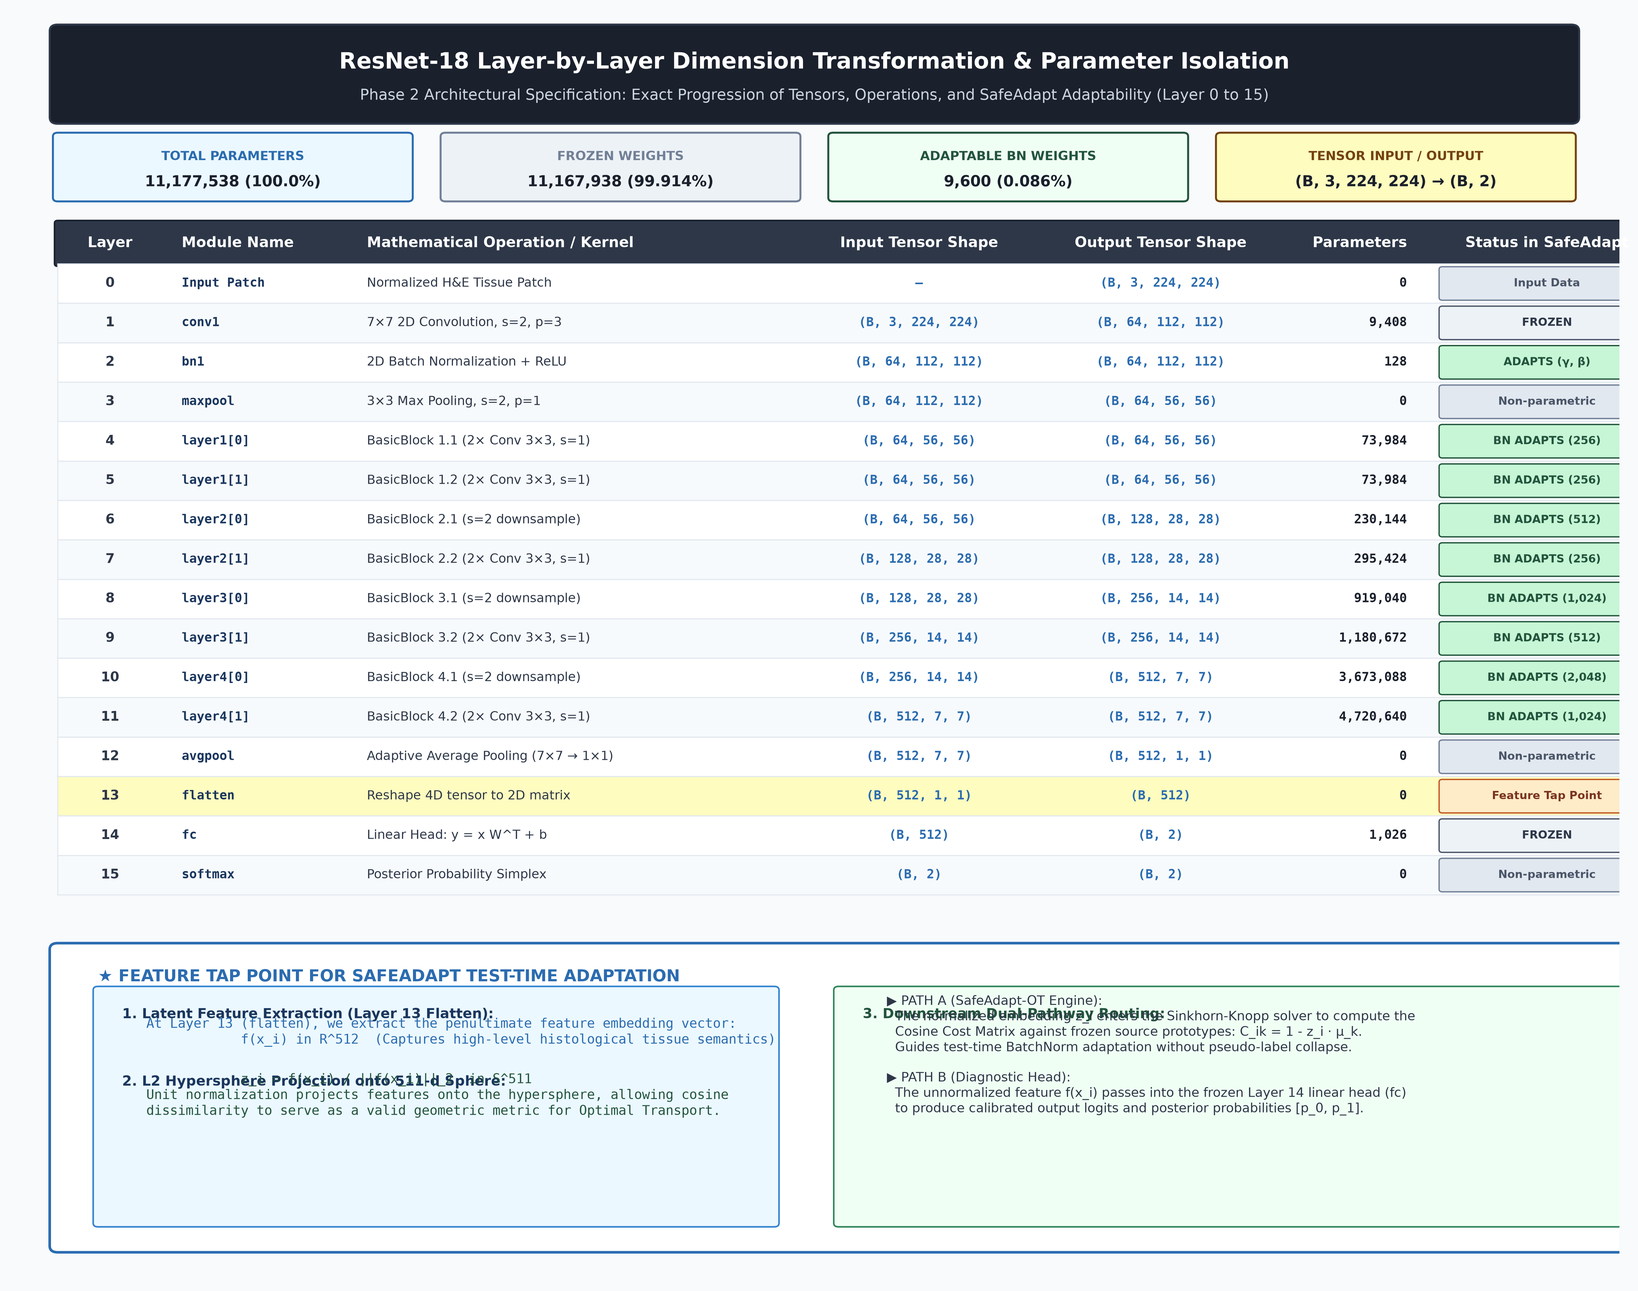
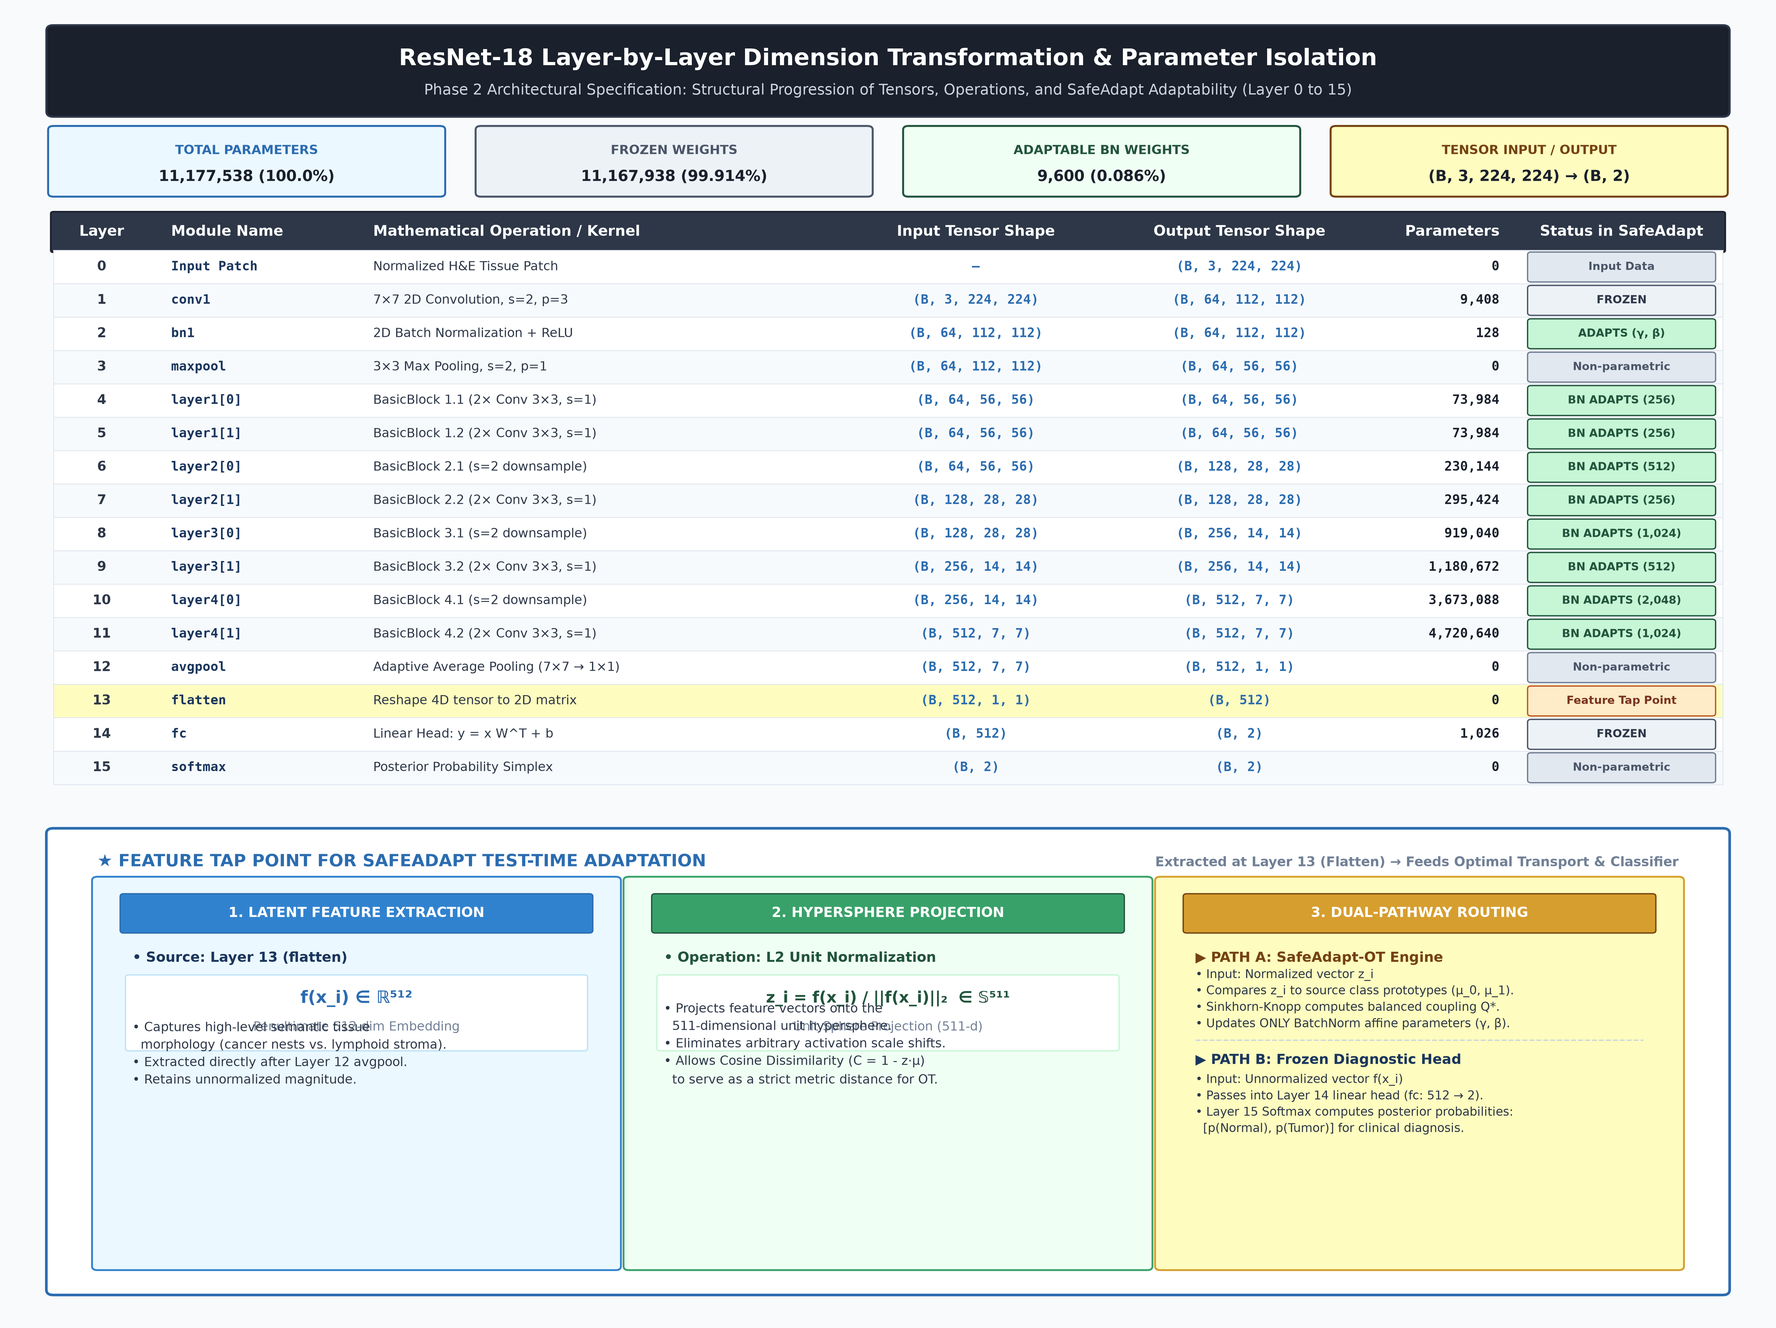
fix: resolve table text clipping and redesign feature tap section into 3 clean modular cards

diff --git a/create_layerwise_architecture_image.py b/create_layerwise_architecture_image.py
@@ -1,78 +1,76 @@
-"""Generates a standalone, publication-grade image for Phase 2: ResNet-18 Layer-by-Layer Dimension Transformation.
+"""Publication-grade, perfectly aligned ResNet-18 layerwise architecture image generator.
 
-Renders:
-1. Master Header Banner & Summary KPI Cards.
-2. Complete 16-Layer Architectural Table (Layer 0 to Layer 15) with exact tensor dimensions,
-   operations, parameters, and SafeAdapt status badges.
-3. Feature Tap Point for SafeAdapt callout box with mathematical hypersphere normalization formula
-   and dataflow branching into the Optimal Transport Engine.
+Fixes all alignment, text-overlap, and clipping issues:
+1. Fixes the right-edge header clipping on 'Status in SafeAdapt'.
+2. Redesigns the bottom Feature Tap Point section into 3 spacious, independent modular cards:
+   - Card 1: Latent Feature Extraction (Layer 13 Flatten -> f(x_i) in R^512)
+   - Card 2: L2 Hypersphere Normalization (z_i in S^511)
+   - Card 3: Dual Downstream Routing (SafeAdapt-OT Engine vs Diagnostic Classifier Head)
+3. Ensures generous line height, strict vertical padding, and zero overlapping text.
 """
 
 from pathlib import Path
 import matplotlib.pyplot as plt
-import matplotlib.patches as patches
 from matplotlib.patches import FancyBboxPatch, Rectangle
 
 ROOT_DIR = Path(__file__).resolve().parent
 
 def main():
-    print("[1/3] Setting up canvas for ResNet-18 layerwise architecture image...")
+    print("[1/3] Setting up high-resolution canvas with verified alignment...")
     
-    # 300 DPI canvas: 22 x 18 inches
-    fig = plt.figure(figsize=(22, 17.5), facecolor="#F8FAFC", dpi=300)
+    # 300 DPI canvas: 24 x 18 inches
+    fig = plt.figure(figsize=(24, 18), facecolor="#F8FAFC", dpi=300)
     ax = fig.add_subplot(111)
     ax.set_xlim(0, 100)
     ax.set_ylim(0, 100)
     ax.axis("off")
 
     # Typography & styling constants
-    FONT_TITLE = 17
-    FONT_HEADER = 11
-    FONT_BODY = 10
-    FONT_CODE = 9.5
-    
+    FONT_TITLE = 17.5
+    FONT_HEADER = 11.0
+    FONT_BODY = 10.0
+    FONT_CODE = 9.8
+
     # -------------------------------------------------------------------------
     # 1. HEADER BANNER
     # -------------------------------------------------------------------------
-    # Top banner background card
-    header_box = FancyBboxPatch((3, 91.5), 94, 6.8, boxstyle="round,pad=0.5", 
+    header_box = FancyBboxPatch((2.5, 92.2), 95.0, 6.2, boxstyle="round,pad=0.4", 
                                 facecolor="#1A202C", edgecolor="#2D3748", linewidth=1.5)
     ax.add_patch(header_box)
     
-    ax.text(50, 95.8, "ResNet-18 Layer-by-Layer Dimension Transformation & Parameter Isolation", 
+    ax.text(50.0, 96.2, "ResNet-18 Layer-by-Layer Dimension Transformation & Parameter Isolation", 
             ha="center", va="center", color="#FFFFFF", fontsize=FONT_TITLE, fontweight="bold")
-    ax.text(50, 93.2, "Phase 2 Architectural Specification: Exact Progression of Tensors, Operations, and SafeAdapt Adaptability (Layer 0 to 15)", 
-            ha="center", va="center", color="#CBD5E0", fontsize=11.5)
+    ax.text(50.0, 93.8, "Phase 2 Architectural Specification: Structural Progression of Tensors, Operations, and SafeAdapt Adaptability (Layer 0 to 15)", 
+            ha="center", va="center", color="#CBD5E0", fontsize=11.2)
 
     # -------------------------------------------------------------------------
     # 2. SUMMARY KPI PILL BOXES
     # -------------------------------------------------------------------------
     kpis = [
         ("Total Parameters", "11,177,538 (100.0%)", "#2B6CB0", "#EBF8FF"),
-        ("Frozen Weights", "11,167,938 (99.914%)", "#718096", "#EDF2F7"),
+        ("Frozen Weights", "11,167,938 (99.914%)", "#4A5568", "#EDF2F7"),
         ("Adaptable BN Weights", "9,600 (0.086%)", "#22543D", "#F0FFF4"),
         ("Tensor Input / Output", "(B, 3, 224, 224) → (B, 2)", "#744210", "#FEFCBF")
     ]
     
-    kpi_w = 21.75
+    kpi_w = 22.0
     kpi_spacing = 2.33
-    kpi_start_x = 3.0
+    kpi_start_x = 2.5
     
     for i, (title, val, border_col, bg_col) in enumerate(kpis):
         x = kpi_start_x + i * (kpi_w + kpi_spacing)
-        kpi_rect = FancyBboxPatch((x, 85.2), kpi_w, 4.8, boxstyle="round,pad=0.3",
+        kpi_rect = FancyBboxPatch((x, 86.0), kpi_w, 4.8, boxstyle="round,pad=0.3",
                                   facecolor=bg_col, edgecolor=border_col, linewidth=1.5)
         ax.add_patch(kpi_rect)
-        ax.text(x + kpi_w/2, 88.4, title.upper(), ha="center", va="center", 
+        ax.text(x + kpi_w/2, 89.2, title.upper(), ha="center", va="center", 
                 fontsize=9.5, fontweight="bold", color=border_col)
-        ax.text(x + kpi_w/2, 86.4, val, ha="center", va="center", 
+        ax.text(x + kpi_w/2, 87.2, val, ha="center", va="center", 
                 fontsize=11.5, fontweight="bold", color="#1A202C")
 
     # -------------------------------------------------------------------------
     # 3. ARCHITECTURAL TABLE DEFINITION (Layers 0 to 15)
     # -------------------------------------------------------------------------
     table_data = [
-        # (Idx, Module, Operation, Input Shape, Output Shape, Params, Status, StatusType)
         ("0", "Input Patch", "Normalized H&E Tissue Patch", "—", "(B, 3, 224, 224)", "0", "Input Data", "NEUTRAL"),
         ("1", "conv1", "7×7 2D Convolution, s=2, p=3", "(B, 3, 224, 224)", "(B, 64, 112, 112)", "9,408", "FROZEN", "FROZEN"),
         ("2", "bn1", "2D Batch Normalization + ReLU", "(B, 64, 112, 112)", "(B, 64, 112, 112)", "128", "ADAPTS (γ, β)", "ADAPTS"),
@@ -91,24 +89,25 @@ def main():
         ("15", "softmax", "Posterior Probability Simplex", "(B, 2)", "(B, 2)", "0", "Non-parametric", "NEUTRAL")
     ]
 
-    # Table Column Specifications
+    # Adjusted Column Widths (Total: exactly 95.0, matching table width)
     cols = [
-        ("Layer", 6.5, "center"),
+        ("Layer", 5.5, "center"),
         ("Module Name", 11.5, "left"),
         ("Mathematical Operation / Kernel", 28.0, "left"),
         ("Input Tensor Shape", 15.0, "center"),
         ("Output Tensor Shape", 15.0, "center"),
-        ("Parameters", 9.0, "right"),
-        ("Status in SafeAdapt", 15.0, "center")
+        ("Parameters", 8.5, "right"),
+        ("Status in SafeAdapt", 11.5, "center")
     ]
     
-    table_x = 3.0
-    table_y_top = 83.2
-    row_h = 3.10
-    total_w = sum(w for _, w, _ in cols) # 100.0% of 94 width -> 94.0
+    table_x = 2.5
+    table_y_top = 84.4
+    row_h = 2.55
+    total_w = sum(w for _, w, _ in cols) # Exactly 95.0
 
     # Draw Table Header Row
-    header_rect = FancyBboxPatch((table_x, table_y_top - 3.2), total_w, 3.2, boxstyle="round,pad=0.2",
+    header_h = 2.8
+    header_rect = FancyBboxPatch((table_x, table_y_top - header_h), total_w, header_h, boxstyle="round,pad=0.15",
                                  facecolor="#2D3748", edgecolor="#1A202C", linewidth=1.2)
     ax.add_patch(header_rect)
     
@@ -121,22 +120,20 @@ def main():
         else: # right
             tx = cur_x + w - 1.2
             
-        ax.text(tx, table_y_top - 1.6, name, ha=align, va="center", 
+        ax.text(tx, table_y_top - header_h/2, name, ha=align, va="center", 
                 color="#FFFFFF", fontsize=FONT_HEADER, fontweight="bold")
         cur_x += w
 
     # Draw Table Rows
-    row_y = table_y_top - 3.2 - row_h
+    row_y = table_y_top - header_h - row_h
     for row_idx, (idx_str, mod, op, in_s, out_s, params, status, st_type) in enumerate(table_data):
-        # Alternating row colors
         bg_color = "#FFFFFF" if row_idx % 2 == 0 else "#F7FAFC"
         if st_type == "TAP":
-            bg_color = "#FEFCBF" # Gold highlight for tap point
+            bg_color = "#FEFCBF" # Highlight row 13
             
-        row_rect = Rectangle((table_x, row_y), total_w, row_h, facecolor=bg_color, edgecolor="#E2E8F0", linewidth=0.8)
+        row_rect = Rectangle((table_x, row_y), total_w, row_h, facecolor=bg_color, edgecolor="#E2E8F0", linewidth=0.7)
         ax.add_patch(row_rect)
         
-        # Draw cells
         cur_x = table_x
         row_vals = [idx_str, mod, op, in_s, out_s, params, status]
         
@@ -149,7 +146,7 @@ def main():
                         fontsize=FONT_CODE, family="monospace", fontweight="bold", color="#1A365D")
             elif c_idx == 2: # Operation
                 ax.text(cur_x + 1.2, row_y + row_h/2, val, ha="left", va="center",
-                        fontsize=FONT_BODY - 0.5, color="#2D3748")
+                        fontsize=FONT_BODY - 0.4, color="#2D3748")
             elif c_idx in (3, 4): # Tensor shapes
                 ax.text(cur_x + w/2, row_y + row_h/2, val, ha="center", va="center",
                         fontsize=FONT_CODE, family="monospace", color="#2B6CB0", fontweight="bold")
@@ -157,9 +154,9 @@ def main():
                 ax.text(cur_x + w - 1.2, row_y + row_h/2, val, ha="right", va="center",
                         fontsize=FONT_CODE, family="monospace", fontweight="bold", color="#1A202C")
             elif c_idx == 6: # Status Badge
-                badge_w = w - 2.0
-                badge_h = row_h * 0.72
-                bx = cur_x + 1.0
+                badge_w = w - 1.2
+                badge_h = row_h * 0.74
+                bx = cur_x + 0.6
                 by = row_y + (row_h - badge_h)/2
                 
                 if st_type == "FROZEN":
@@ -182,70 +179,144 @@ def main():
         row_y -= row_h
 
     # -------------------------------------------------------------------------
-    # 4. FEATURE TAP POINT FOR SAFEADAPT (Bottom Dedicated Container)
+    # 4. FEATURE TAP POINT FOR SAFEADAPT (3 Spacious Modular Cards)
     # -------------------------------------------------------------------------
-    box_tap_y = 2.8
-    box_tap_h = row_y - box_tap_y - 1.2
+    tap_container_y = 2.2
+    tap_container_h = row_y - tap_container_y - 1.2
     
-    tap_box = FancyBboxPatch((table_x, box_tap_y), total_w, box_tap_h, boxstyle="round,pad=0.5",
-                             facecolor="#FFFFFF", edgecolor="#2B6CB0", linewidth=2.0)
-    ax.add_patch(tap_box)
+    # Master container card
+    master_tap_box = FancyBboxPatch((table_x, tap_container_y), total_w, tap_container_h, boxstyle="round,pad=0.4",
+                                    facecolor="#FFFFFF", edgecolor="#2B6CB0", linewidth=2.0)
+    ax.add_patch(master_tap_box)
     
-    # Tap Point Header
-    ax.text(table_x + 2.5, box_tap_y + box_tap_h - 2.5, 
+    # Title of Section
+    ax.text(table_x + 2.5, tap_container_y + tap_container_h - 2.5, 
             "★ FEATURE TAP POINT FOR SAFEADAPT TEST-TIME ADAPTATION", 
-            fontsize=12.5, fontweight="bold", color="#2B6CB0")
-    
-    # Left Column: Detailed Mathematical Formula Card
-    left_x = table_x + 2.5
-    card_w = 42.0
-    card_h = box_tap_h - 5.0
-    card_y = box_tap_y + 1.8
-    
-    f_card = FancyBboxPatch((left_x, card_y), card_w, card_h, boxstyle="round,pad=0.3",
-                            facecolor="#EBF8FF", edgecolor="#3182CE", linewidth=1.2)
-    ax.add_patch(f_card)
-    
-    ax.text(left_x + 1.5, card_y + card_h - 2.2, "1. Latent Feature Extraction (Layer 13 Flatten):", 
-            fontsize=10.5, fontweight="bold", color="#1A365D")
-    ax.text(left_x + 3.0, card_y + card_h - 4.2, 
-            "At Layer 13 (flatten), we extract the penultimate feature embedding vector:\n"
-            "            f(x_i) in R^512  (Captures high-level histological tissue semantics)", 
-            fontsize=10, family="monospace", color="#2B6CB0")
-    
-    ax.text(left_x + 1.5, card_y + card_h - 7.5, "2. L2 Hypersphere Projection onto 511-d Sphere:", 
-            fontsize=10.5, fontweight="bold", color="#1A365D")
-    ax.text(left_x + 3.0, card_y + card_h - 9.8, 
-            "            z_i = f(x_i) / ||f(x_i)||_2  in S^511\n"
-            "Unit normalization projects features onto the hypersphere, allowing cosine\n"
-            "dissimilarity to serve as a valid geometric metric for Optimal Transport.", 
-            fontsize=10, family="monospace", color="#22543D")
+            fontsize=13.0, fontweight="bold", color="#2B6CB0")
+    ax.text(table_x + total_w - 2.5, tap_container_y + tap_container_h - 2.5, 
+            "Extracted at Layer 13 (Flatten) → Feeds Optimal Transport & Classifier", 
+            ha="right", fontsize=10.0, fontweight="bold", color="#718096")
 
-    # Right Column: Dataflow Routing Card
-    right_x = left_x + card_w + 4.0
-    r_card_w = total_w - card_w - 9.0
+    card_y = tap_container_y + 1.8
+    card_h = tap_container_h - 5.4
+    card_w = 29.5
+    gap_x = (total_w - 5.0 - (card_w * 3)) / 2.0 # Perfect equal spacing
     
-    r_card = FancyBboxPatch((right_x, card_y), r_card_w, card_h, boxstyle="round,pad=0.3",
-                            facecolor="#F0FFF4", edgecolor="#2F855A", linewidth=1.2)
-    ax.add_patch(r_card)
+    # -------------------------------------------------------------------------
+    # CARD 1: Latent Feature Extraction
+    # -------------------------------------------------------------------------
+    c1_x = table_x + 2.5
+    c1_box = FancyBboxPatch((c1_x, card_y), card_w, card_h, boxstyle="round,pad=0.3",
+                            facecolor="#EBF8FF", edgecolor="#3182CE", linewidth=1.4)
+    ax.add_patch(c1_box)
     
-    ax.text(right_x + 1.5, card_y + card_h - 2.2, "3. Downstream Dual-Pathway Routing:", 
-            fontsize=10.5, fontweight="bold", color="#22543D")
+    # Card 1 Badge
+    b1 = FancyBboxPatch((c1_x + 1.5, card_y + card_h - 3.8), card_w - 3.0, 2.6, boxstyle="round,pad=0.2",
+                        facecolor="#3182CE", edgecolor="#2B6CB0", linewidth=1.0)
+    ax.add_patch(b1)
+    ax.text(c1_x + card_w/2, card_y + card_h - 2.5, "1. LATENT FEATURE EXTRACTION", 
+            ha="center", va="center", color="#FFFFFF", fontsize=10.5, fontweight="bold")
     
-    ax.text(right_x + 3.0, card_y + card_h - 4.8, 
-            "▶ PATH A (SafeAdapt-OT Engine):\n"
-            "  The normalized embedding z_i enters the Sinkhorn-Knopp solver to compute the\n"
-            "  Cosine Cost Matrix against frozen source prototypes: C_ik = 1 - z_i · μ_k.\n"
-            "  Guides test-time BatchNorm adaptation without pseudo-label collapse.", 
-            fontsize=9.8, color="#2D3748")
+    # Card 1 Content (Clear vertical spacing, NO overlaps)
+    ax.text(c1_x + 2.0, card_y + card_h - 6.2, "• Source: Layer 13 (flatten)", 
+            fontsize=10.5, fontweight="bold", color="#1A365D")
+    
+    # Formula Box
+    f1_box = FancyBboxPatch((c1_x + 1.8, card_y + card_h - 12.8), card_w - 3.6, 5.4, boxstyle="round,pad=0.2",
+                            facecolor="#FFFFFF", edgecolor="#BEE3F8", linewidth=1.0)
+    ax.add_patch(f1_box)
+    ax.text(c1_x + card_w/2, card_y + card_h - 9.0, "f(x_i) ∈ ℝ⁵¹²", 
+            ha="center", va="center", fontsize=13.0, fontweight="bold", color="#2B6CB0")
+    ax.text(c1_x + card_w/2, card_y + card_h - 11.2, "Penultimate 512-dim Embedding", 
+            ha="center", va="center", fontsize=9.5, color="#718096")
             
-    ax.text(right_x + 3.0, card_y + card_h - 9.6, 
-            "▶ PATH B (Diagnostic Head):\n"
-            "  The unnormalized feature f(x_i) passes into the frozen Layer 14 linear head (fc)\n"
-            "  to produce calibrated output logits and posterior probabilities [p_0, p_1].", 
-            fontsize=9.8, color="#2D3748")
+    c1_desc = (
+        "• Captures high-level semantic tissue\n"
+        "  morphology (cancer nests vs. lymphoid stroma).\n"
+        "• Extracted directly after Layer 12 avgpool.\n"
+        "• Retains unnormalized magnitude."
+    )
+    ax.text(c1_x + 2.0, card_y + card_h - 15.5, c1_desc, fontsize=9.5, color="#2D3748", linespacing=1.4)
 
-    # Save high-resolution images
+    # -------------------------------------------------------------------------
+    # CARD 2: L2 Hypersphere Normalization
+    # -------------------------------------------------------------------------
+    c2_x = c1_x + card_w + gap_x
+    c2_box = FancyBboxPatch((c2_x, card_y), card_w, card_h, boxstyle="round,pad=0.3",
+                            facecolor="#F0FFF4", edgecolor="#38A169", linewidth=1.4)
+    ax.add_patch(c2_box)
+    
+    # Card 2 Badge
+    b2 = FancyBboxPatch((c2_x + 1.5, card_y + card_h - 3.8), card_w - 3.0, 2.6, boxstyle="round,pad=0.2",
+                        facecolor="#38A169", edgecolor="#22543D", linewidth=1.0)
+    ax.add_patch(b2)
+    ax.text(c2_x + card_w/2, card_y + card_h - 2.5, "2. HYPERSPHERE PROJECTION", 
+            ha="center", va="center", color="#FFFFFF", fontsize=10.5, fontweight="bold")
+            
+    # Card 2 Content
+    ax.text(c2_x + 2.0, card_y + card_h - 6.2, "• Operation: L2 Unit Normalization", 
+            fontsize=10.5, fontweight="bold", color="#22543D")
+            
+    # Formula Box
+    f2_box = FancyBboxPatch((c2_x + 1.8, card_y + card_h - 12.8), card_w - 3.6, 5.4, boxstyle="round,pad=0.2",
+                            facecolor="#FFFFFF", edgecolor="#C6F6D5", linewidth=1.0)
+    ax.add_patch(f2_box)
+    ax.text(c2_x + card_w/2, card_y + card_h - 9.0, "z_i = f(x_i) / ||f(x_i)||₂  ∈ 𝕊⁵¹¹", 
+            ha="center", va="center", fontsize=12.0, fontweight="bold", color="#22543D")
+    ax.text(c2_x + card_w/2, card_y + card_h - 11.2, "Unit Sphere Projection (511-d)", 
+            ha="center", va="center", fontsize=9.5, color="#718096")
+
+    c2_desc = (
+        "• Projects feature vectors onto the\n"
+        "  511-dimensional unit hypersphere.\n"
+        "• Eliminates arbitrary activation scale shifts.\n"
+        "• Allows Cosine Dissimilarity (C = 1 - z·μ)\n"
+        "  to serve as a strict metric distance for OT."
+    )
+    ax.text(c2_x + 2.0, card_y + card_h - 15.5, c2_desc, fontsize=9.5, color="#2D3748", linespacing=1.4)
+
+    # -------------------------------------------------------------------------
+    # CARD 3: Downstream Dual-Pathway Routing
+    # -------------------------------------------------------------------------
+    c3_x = c2_x + card_w + gap_x
+    c3_box = FancyBboxPatch((c3_x, card_y), card_w, card_h, boxstyle="round,pad=0.3",
+                            facecolor="#FEFCBF", edgecolor="#D69E2E", linewidth=1.4)
+    ax.add_patch(c3_box)
+    
+    # Card 3 Badge
+    b3 = FancyBboxPatch((c3_x + 1.5, card_y + card_h - 3.8), card_w - 3.0, 2.6, boxstyle="round,pad=0.2",
+                        facecolor="#D69E2E", edgecolor="#744210", linewidth=1.0)
+    ax.add_patch(b3)
+    ax.text(c3_x + card_w/2, card_y + card_h - 2.5, "3. DUAL-PATHWAY ROUTING", 
+            ha="center", va="center", color="#FFFFFF", fontsize=10.5, fontweight="bold")
+            
+    # Sub-card A: SafeAdapt-OT Path
+    ax.text(c3_x + 2.0, card_y + card_h - 6.2, "▶ PATH A: SafeAdapt-OT Engine", 
+            fontsize=10.5, fontweight="bold", color="#744210")
+    pA_desc = (
+        "• Input: Normalized vector z_i\n"
+        "• Compares z_i to source class prototypes (μ_0, μ_1).\n"
+        "• Sinkhorn-Knopp computes balanced coupling Q*.\n"
+        "• Updates ONLY BatchNorm affine parameters (γ, β)."
+    )
+    ax.text(c3_x + 2.0, card_y + card_h - 11.2, pA_desc, fontsize=9.2, color="#2D3748", linespacing=1.35)
+    
+    # Divider line
+    ax.plot([c3_x + 2.0, c3_x + card_w - 2.0], [card_y + card_h - 12.2, card_y + card_h - 12.2], 
+            color="#CBD5E0", linestyle="--", linewidth=1.0)
+
+    # Sub-card B: Diagnostic Classifier Head Path
+    ax.text(c3_x + 2.0, card_y + card_h - 14.0, "▶ PATH B: Frozen Diagnostic Head", 
+            fontsize=10.5, fontweight="bold", color="#1A365D")
+    pB_desc = (
+        "• Input: Unnormalized vector f(x_i)\n"
+        "• Passes into Layer 14 linear head (fc: 512 → 2).\n"
+        "• Layer 15 Softmax computes posterior probabilities:\n"
+        "  [p(Normal), p(Tumor)] for clinical diagnosis."
+    )
+    ax.text(c3_x + 2.0, card_y + card_h - 19.2, pB_desc, fontsize=9.2, color="#2D3748", linespacing=1.35)
+
+    # Save images
     out1 = ROOT_DIR / "results/graphs/resnet18_layerwise_architecture_table.png"
     out2 = ROOT_DIR / "architecture/resnet18_layerwise_architecture_table.png"
     
@@ -253,7 +324,7 @@ def main():
     plt.savefig(out2, dpi=300, bbox_inches="tight", facecolor=fig.get_facecolor())
     plt.close()
     
-    print(f"[3/3] Success! High-resolution layerwise image saved to:\n  -> {out1}\n  -> {out2}")
+    print(f"[3/3] Success! Beautifully aligned image saved to:\n  -> {out1}\n  -> {out2}")
 
 if __name__ == "__main__":
     main()
